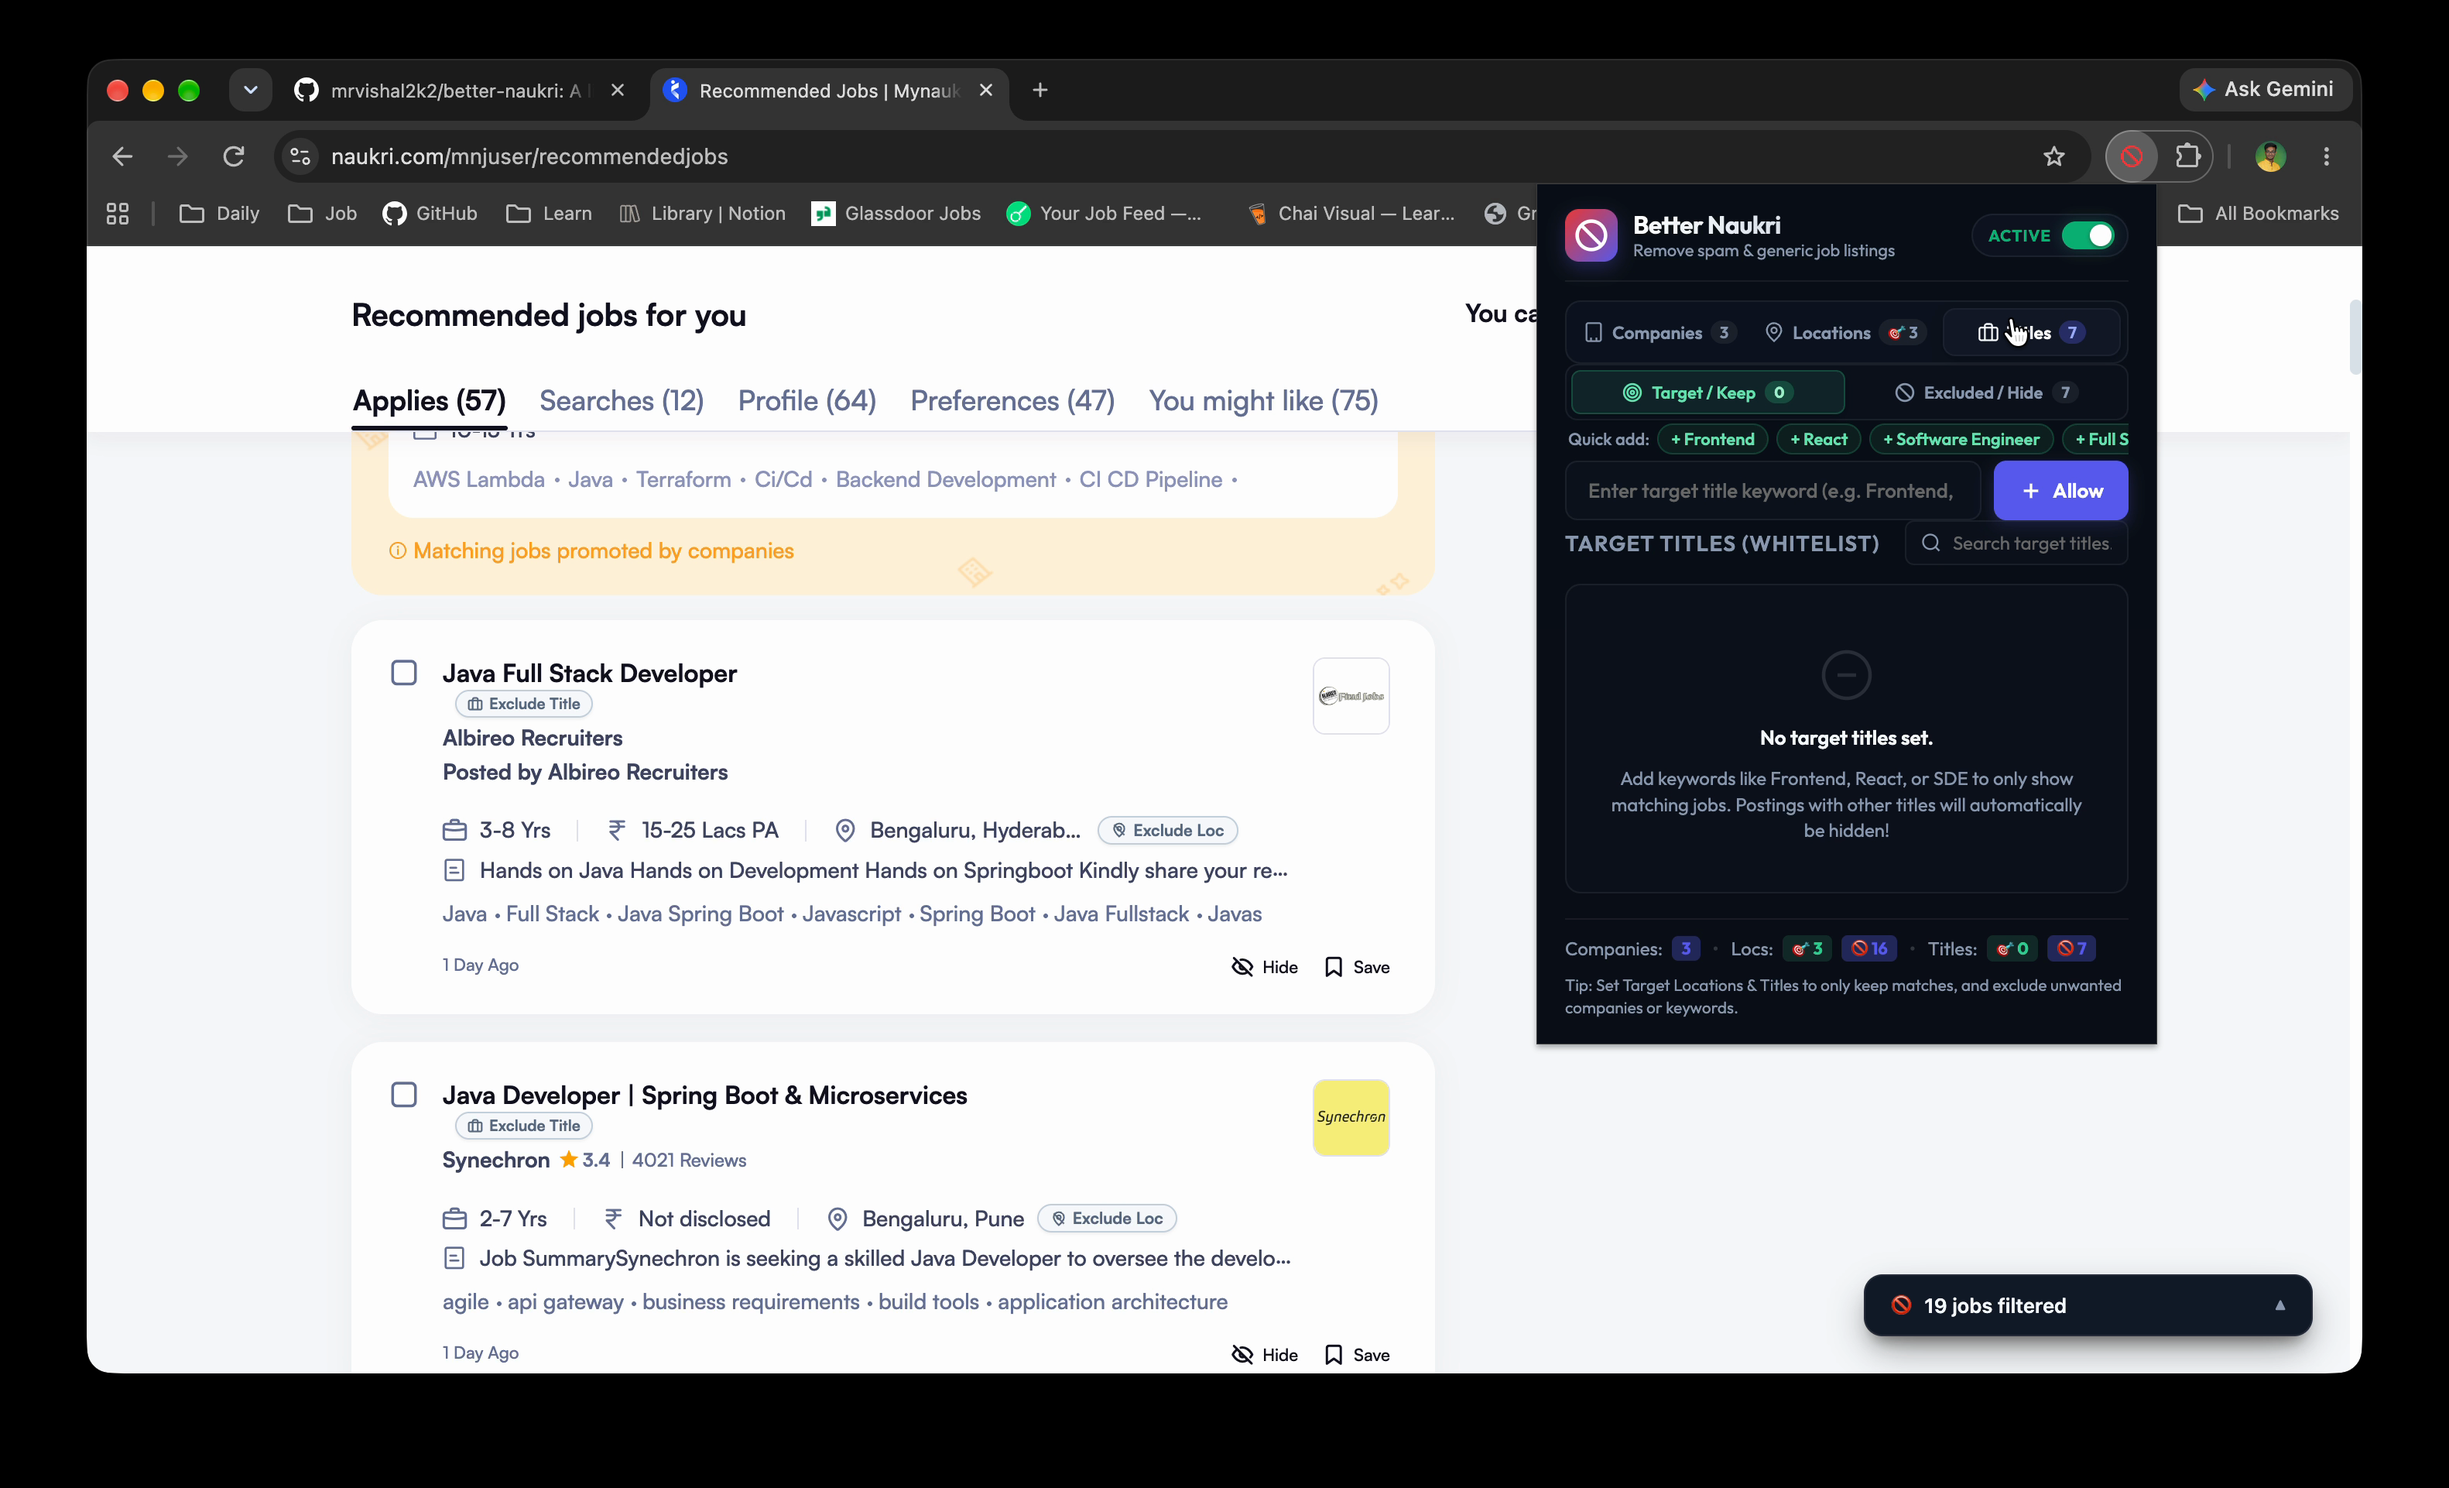
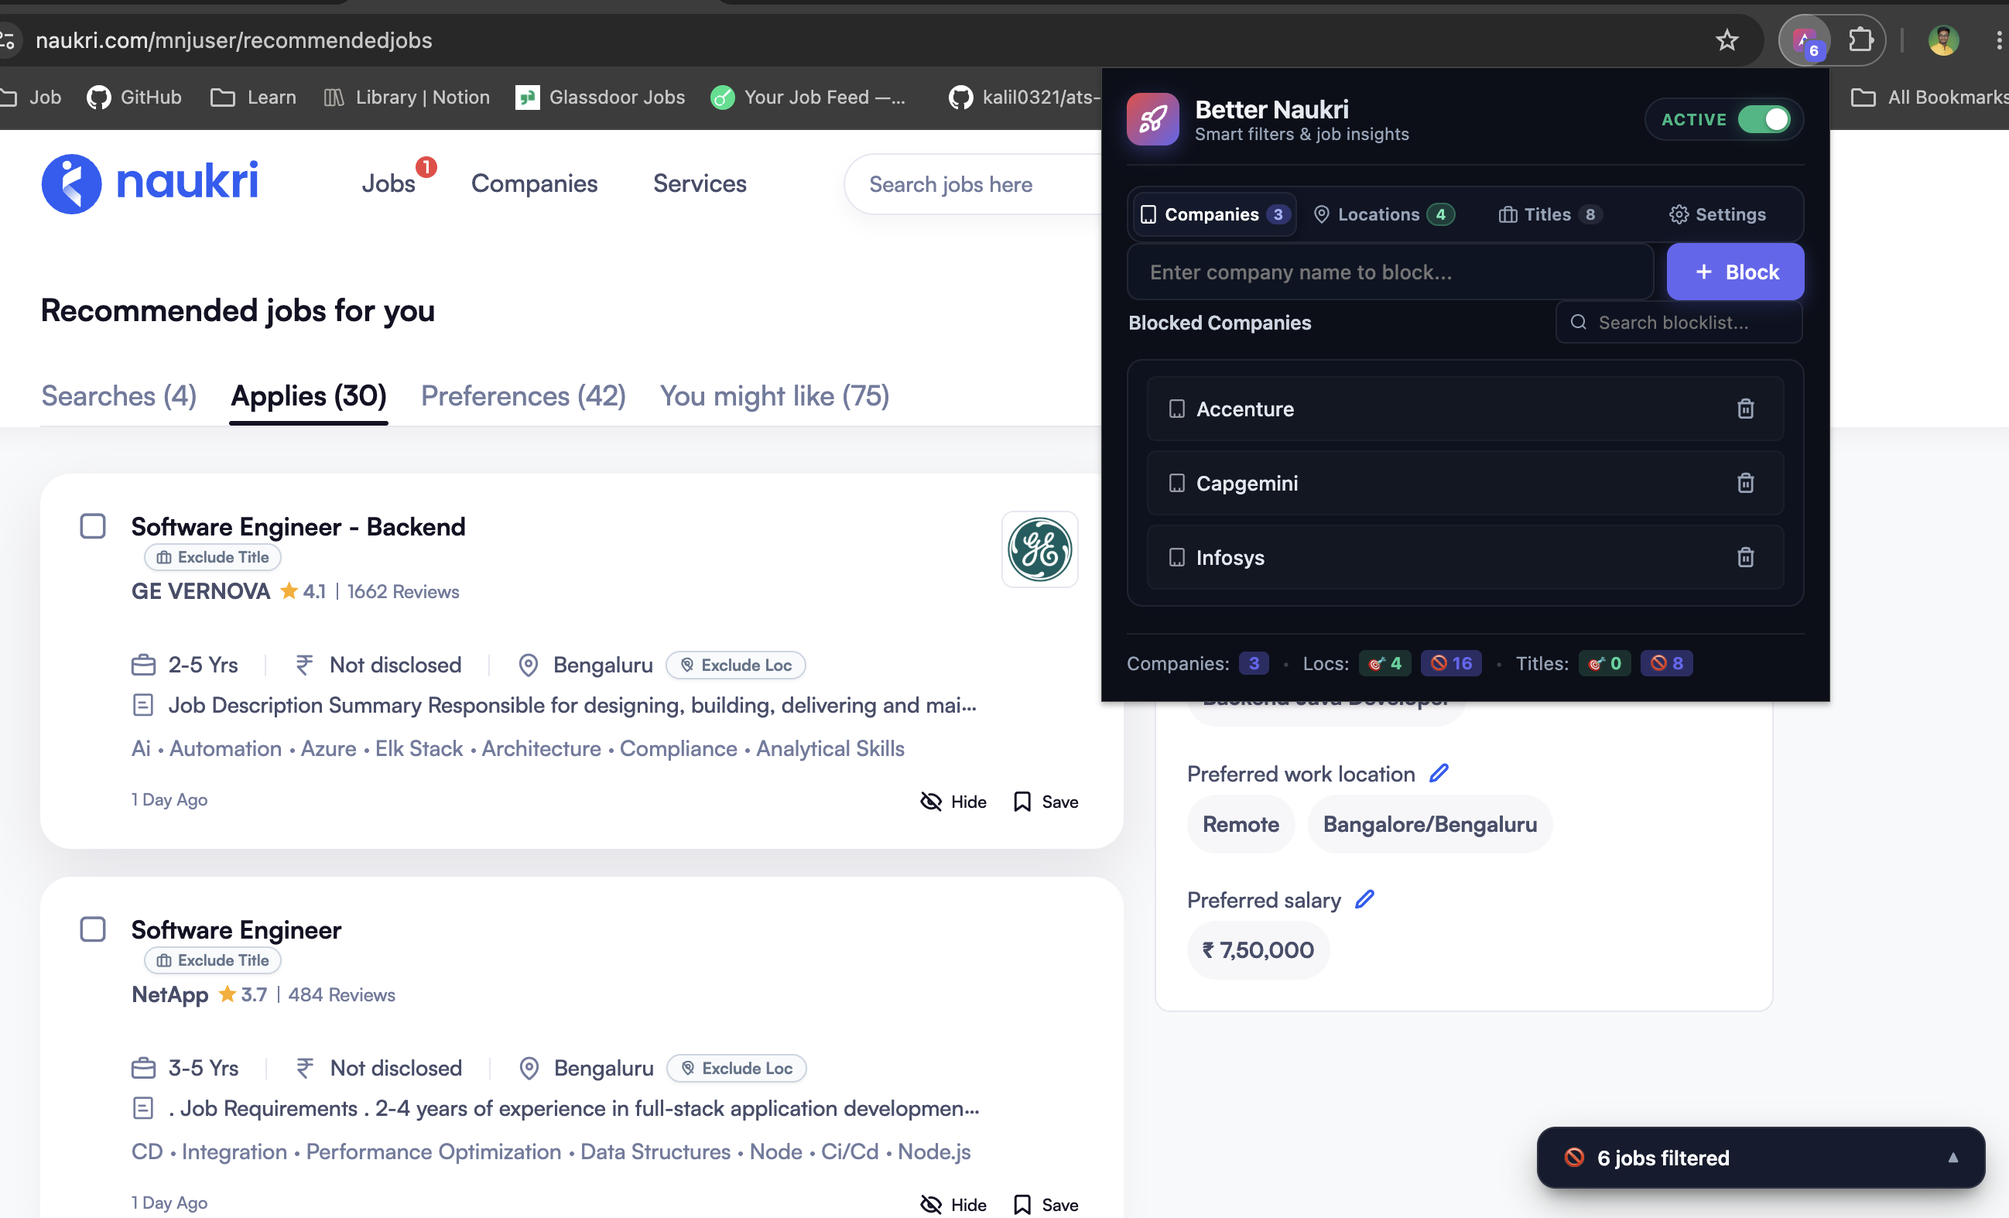
Refresh README screenshots and demo media

diff --git a/README.md b/README.md
@@ -6,7 +6,7 @@
 [![Manifest V3](https://img.shields.io/badge/Chrome-Manifest%20V3-blue.svg)](https://developer.chrome.com/docs/extensions/mv3/intro/)
 
 <p align="center">
-  <img src="assets/demo.gif" alt="Better Naukri Demo" width="100%">
+  <img src="assets/demo.gif" alt="Better Naukri in action on Naukri job listings" width="100%">
 </p>
 
 ---
@@ -41,13 +41,17 @@ Anyone searching for jobs on Naukri.com in India knows the frustration:
 * **In-Page Title Popover:** Click "Exclude Title" on any card to exclude keywords or click `+ Target` to whitelist keywords on the fly.
 
 ### 4. 📊 Floating Dashboard Widget
-* A sleek floating pill in the bottom-right of Naukri search pages shows how many jobs have been filtered on the current page.
+* A compact floating dashboard in the bottom-right of Naukri search pages shows how many jobs have been filtered on the current page.
 * Expand to see a live breakdown of filtered companies, locations, and titles.
 * **Granular Eye Toggles `[👁]`:** Click the eye icon next to any filtered group (company, location, title, or stale age) to temporarily unhide/re-hide those cards for your session without deleting stored rules.
 * Includes a **Show Blocked** toggle (to inspect hidden jobs with visual reason badges) and a **Pause** filter toggle.
 
 <p align="center">
-  <img src="assets/show-blocked.png" alt="Floating Dashboard Widget & Show Blocked" width="100%">
+  <img src="assets/show-blocked.png" alt="Expanded floating dashboard showing filtered jobs and controls" width="100%">
+</p>
+
+<p align="center">
+  <img src="assets/popup-active.png" alt="Active Better Naukri popup with company, location, and title filters" width="100%">
 </p>
 
 ### 5. 👥 Exact Applicant Counter, Real Views & Job Insights
